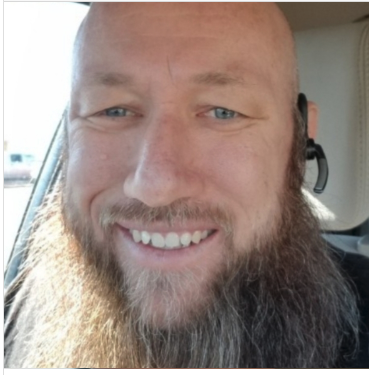
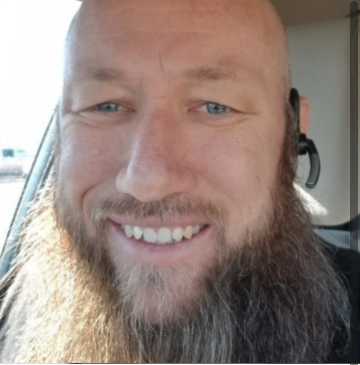
Added photos to About Page

diff --git a/src/components/About.js b/src/components/About.js
@@ -2,43 +2,47 @@ import React from 'react'
 import Navigation from "./Navigation";
 import NH from "../imgs/nh.jpg";
 import ZS from "../imgs/zs.png"
+import GJ from "../imgs/gj.png"
+import MB from "../imgs/mb.png"
+import SH from "../imgs/sh.png"
+import RM from "../imgs/rm.png"
 
 const About = () => {
     return (
         <div>
             <Navigation />
             <h1>About Page</h1>
-            <section>
-                <img src={ZS} alt="photo of Zac" width="350" />
-                <h2>Team Lead</h2>
-                <h3>Zac Smith</h3>
-            </section>
-            <section>
-                <img src={NH} alt="photo of Nicole" width="350" />
-                <h2>Front End Developer</h2>
-                <h3>Nicole Hollis</h3>
-            </section>
-            <section>
-                <img src={NH} alt="photo of Michael" width="350" />
-                <h2>Front End Developer</h2>
-                <h3>Michael Babylon</h3>
-            </section>
-            <section>
-                <img src={NH} alt="photo of Greg" width="350" />
-                <h2>Back End Developer</h2>
-                <h3>Greg Johnson</h3>
-            </section>
-            <section>
-                <img src={NH} alt="photo of Scott" width="350" />
-                <h2>Data Science</h2>
-                <h3>Scott Huston</h3>
-            </section>
-            <section>
-                <img src={NH} alt="photo of Romy" width="350" />
-                <h2>Data Science</h2>
-                <h3>Romy Morsy</h3>
-            </section>
+            <div className="About">
+                <section className="team-member">
+                    <img src={ZS} alt="Zachery Smith" width="350" />
+                    <h2>Team Lead - Zachery Smith</h2>
+                </section>
 
+                <section className="team-member">
+                    <img src={GJ} alt="Greg Johnston" width="350" />
+                    <h2>Back End Developer - Greg Johnston</h2>
+                </section>
+
+                <section className="team-member">
+                    <img src={NH} alt="Nicole Hollis" width="350" />
+                    <h2>Front End Developer - Nicole Hollis</h2>
+                </section>
+
+                <section className="team-member">
+                    <img src={MB} alt="Michael Baynon" width="350" />
+                    <h2>Front End Developer - Michael Baynon</h2>
+                </section>
+
+                <section className="team-member">
+                    <img src={SH} alt="Scott Huston" width="350" />
+                    <h2>Data Engineer - Scott Huston</h2>
+                </section>
+
+                <section className="team-member">
+                    <img src={RM} alt="Romy Morsy" width="350" />
+                    <h2>Data Engineer - Romy Morsy</h2>
+                </section>
+            </div>
         </div>
     )
 }

diff --git a/src/components/Navigation.js b/src/components/Navigation.js
@@ -3,36 +3,30 @@ import { Link } from "react-router-dom";
 import CV from "../imgs/largelogo.png";
 import "../../src/App.css";
 import { logout } from "../helpers/Logout";
-import About from './About'
+
 
 const Navigation = () => {
   return (
     <div>
       <section>
-        
+
 
         <div className="nav">
           <div>
-        <img src={CV} width="60" height="60" alt="college value logo" />
-        </div>
+            <img src={CV} width="60" height="60" alt="college value logo" />
+          </div>
           <div>
             <Link to="/">Home</Link>
           </div>
 
           <div>
-            <Link to="/about" alt="about page">
-              About
-            </Link>
+            <Link to="/about" alt="about page">About</Link>
           </div>
           <div>
-            <Link to="/login" alt="predictions">
-             Sign In
-            </Link>
+            <Link to="/login" alt="predictions">Sign In</Link>
           </div>
           <div>
-            <Link to="/signup" alt="signup page">
-              Sign Up
-            </Link>
+            <Link to="/signup" alt="signup page">Sign Up</Link>
           </div>
           <div>
             <Link to="/" onClick={logout}>

diff --git a/src/components/Home.js b/src/components/Home.js
@@ -2,7 +2,7 @@ import React from "react";
 import { Link } from "react-router-dom";
 import Navigation from "./Navigation";
 import PhotoCard from "./PhotoCard";
-import CV from "../imgs/largelogo.png";
+// import CV from "../imgs/largelogo.png";
 import college1 from "../imgs/college1.png";
 import college2 from "../imgs/college 2.png";
 import college3 from "../imgs/college3.jpg";
@@ -18,9 +18,9 @@ const Home = () => {
       <div className="homepageContent">
         <div className="callToAction">
           <span>
-            Time to make one of the biggest descisions of your lives. <br></br>{" "}
+            <p>Time to make one of the biggest descisions of your lives. <br></br>{" "}
             Use the power of data science to predict which college is best for
-            you.
+            you.</p>
           </span>
           <Link to="/signup">
             <button className="sign-up-btn">Sign Up</button>

diff --git a/src/App.css b/src/App.css
@@ -151,6 +151,7 @@
 /* } */
 
 .sign-up-btn {
+  margin-top: 20px;
   margin-bottom: 10px;
   font-size: 16px;
   background-color: white;
@@ -202,9 +203,7 @@
 .homepageContent p {
   font-size: 28px;
   display: flex;
-
   width: 20%;
-
   align-content: center;
   align-items: center;
   justify-content: center;
@@ -239,13 +238,23 @@
 .callToAction p {
   color: grey;
   width: fit-content;
-  margin: 0 auto;
-  font-size: 16px;
+  margin: 10px auto;
+  font-size: 28px;
   margin-bottom: 10px;
 }
 
 .team-member {
-  margin: 0 auto;
+  display: flex;
+  margin: 10px;
+  padding: 10px;
+  align-items: center;
+}
+
+.team-member img {
+  max-width: 60%;
+  border: 1px solid black;
+  border-radius: 4px;
+  margin:20px;
 }
 
 

diff --git a/src/components/PhotoCard.js b/src/components/PhotoCard.js
@@ -19,7 +19,7 @@ const PhotoCard = () => {
         const min = 1;
         const max = 10;
         const rand = Math.floor(min + Math.random() * (max - min));
-        console.log(rand);
+        // console.log(rand);
 
         const display = homeImg[rand].urls.regular;
         // console.log('Display', display)

diff --git a/src/components/SignUp.js b/src/components/SignUp.js
@@ -1,7 +1,7 @@
 import React, { useState } from "react";
 import axios from "axios";
 import { Link } from "react-router-dom";
-import CV from "../imgs/largelogo.png";
+// import CV from "../imgs/largelogo.png";
 import Navigation from "./Navigation";
 
 const SignUp = props => {

diff --git a/src/components/Login.js b/src/components/Login.js
@@ -1,7 +1,7 @@
 import React, { useState } from "react";
 import axios from "axios";
 import { Link } from "react-router-dom";
-import CV from "../imgs/largelogo.png";
+// import CV from "../imgs/largelogo.png";
 import Navigation from "./Navigation";
 
 const Login = props => {
